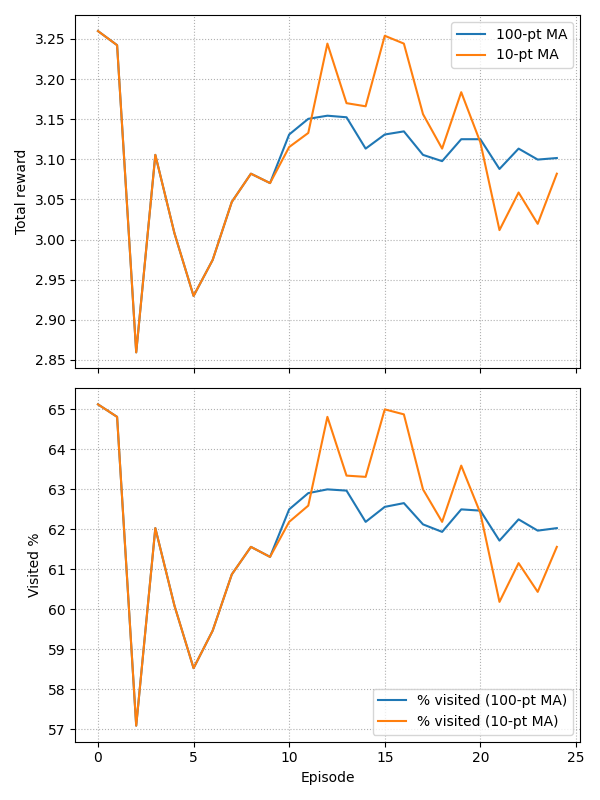
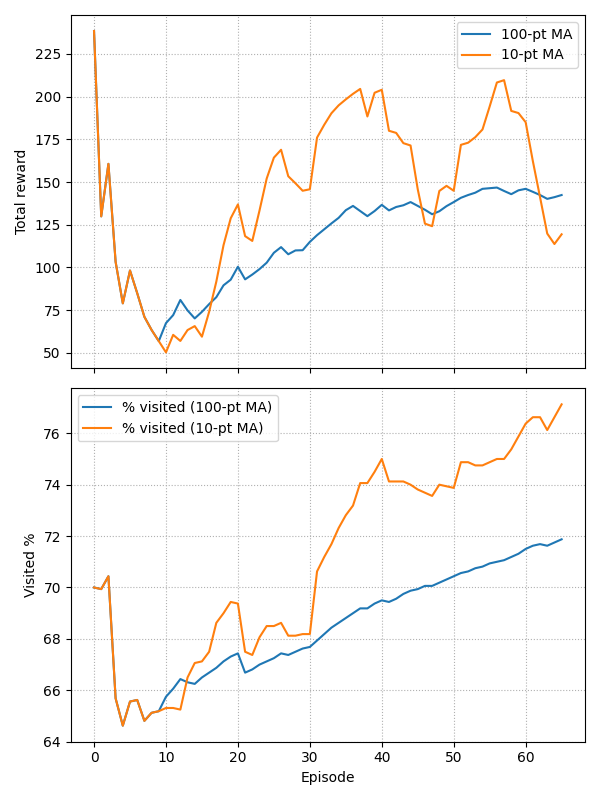
fixed memory to copy + other cmall imrovements

diff --git a/main.py b/main.py
@@ -5,17 +5,26 @@ from map import Map
 from DQAgent import DQAgent
 import random
 import matplotlib.pyplot as plt
+from collections import deque
 
-def moving_avg(seq, window):
-    return [sum(seq[max(0, i-window+1): i+1]) / min(window, i+1)
-            for i in range(len(seq))]
+# helper Incrementally update a moving-average list
+def update_ma(window, running_sum, new_val, ma_store):
+    # drop the value that just fell out of the window (if any)
+    if len(window) == window.maxlen:
+        running_sum -= window[0]
+    # push the new value
+    window.append(new_val)
+    running_sum += new_val
+    # append current average
+    ma_store.append(running_sum / len(window))
+    return running_sum
 
 
 MAXSIZE = 100
 MAXBANDS = 3
 
 def reset():
-    m = Map(100, 100, 10, MAXSIZE, MAXBANDS)
+    m = Map(100, 100, 11, MAXSIZE, MAXBANDS)
     m.add_wall(0, 0, 100, 10)
     m.add_wall(0, 0, 10, 100)
     m.add_wall(90, 0, 100, 100)
@@ -28,16 +37,24 @@ agent = DQAgent((MAXSIZE, MAXSIZE, MAXBANDS), 16)
 #agent.loadModel("models/Model-latest.weights.h5")
 
 
+rew_w100, rew_w10 = deque(maxlen=100), deque(maxlen=10)
+vis_w100, vis_w10 = deque(maxlen=100), deque(maxlen=10)
+
+sum_rew100 = sum_rew10 = 0.0
+sum_vis100 = sum_vis10 = 0.0
+
+MA_rew100, MA_rew10 = [], []        # what will plot
+MA_vis100, MA_vis10 = [], []
 
 roundNum = 0
-EveryReward = []
-PercentVisited = []
 m = reset()
 mapsize = m.getMovableCount()
 print("Map size:", mapsize)
-GOAL_REWARD      = +1
-STEP_PENALTY     = -1.0/mapsize     # every time step
-NEW_CELL_REWARD  = +5.0/mapsize
+GOAL_REWARD      = 100
+STEP_PENALTY     = -1.0     # every time step
+NEW_CELL_REWARD  = +.05
+currGoal = .70
+goalCount = 0
 while roundNum < 10000:
     roundNum += 1
     m = reset()
@@ -52,8 +69,15 @@ while roundNum < 10000:
 
         if roundNum % 10 == 0:
             m.displayBase()
-        if afterLen >= mapsize:
-            print("-------------------------------------Visited all cells")
+        if afterLen >= (mapsize*currGoal):
+            goalCount += 1
+            if goalCount >= 20:
+                currGoal += .05
+                if currGoal > 1.0:
+                    currGoal = 1.0
+                goalCount = 0
+                print("Goal reached, making harder",currGoal)
+            print("-------------------------------------Visited all cells",currGoal)
             reward = GOAL_REWARD
         elif afterLen > startLen:
             reward = NEW_CELL_REWARD * (afterLen - startLen)
@@ -67,24 +91,30 @@ while roundNum < 10000:
     if roundNum % 100 == 0:
         agent.epsilon = oldEps
     
-    EveryReward.append(allRewards)
+
     visited_pct = (m.grid[:, :, 2].sum() / mapsize) * 100.0   # % of cells cleaned this episode
-    PercentVisited.append(visited_pct)
+
+    # update running moving averages
+    sum_rew100 = update_ma(rew_w100, sum_rew100, allRewards, MA_rew100)
+    sum_rew10  = update_ma(rew_w10 , sum_rew10 , allRewards, MA_rew10)
+
+    sum_vis100 = update_ma(vis_w100, sum_vis100, visited_pct, MA_vis100)
+    sum_vis10  = update_ma(vis_w10 , sum_vis10 , visited_pct, MA_vis10)
 
     # --- plotting ---
     plt.clf()
     fig, (ax1, ax2) = plt.subplots(2, 1, figsize=(6, 8), sharex=True)
 
     # rewards (existing plot)
-    ax1.plot(moving_avg(EveryReward, 100), label="100-pt MA")
-    ax1.plot(moving_avg(EveryReward, 10) , label="10-pt MA")
+    ax1.plot(MA_rew100, label="100-pt MA")
+    ax1.plot(MA_rew10 , label="10-pt MA")
     ax1.set_ylabel("Total reward")
     ax1.legend()
     ax1.grid(True, linestyle=":")
 
     # NEW: % of spaces visited
-    ax2.plot(moving_avg(PercentVisited, 100), label="% visited (100-pt MA)")
-    ax2.plot(moving_avg(PercentVisited, 10), label="% visited (10-pt MA)")
+    ax2.plot(MA_vis100, label="% visited (100-pt MA)")
+    ax2.plot(MA_vis10 , label="% visited (10-pt MA)")
     ax2.set_ylabel("Visited %")
     ax2.set_xlabel("Episode")
     ax2.legend()
@@ -92,6 +122,7 @@ while roundNum < 10000:
 
     fig.tight_layout()
     fig.savefig("rewards.png")
+    plt.close(fig)
 
 m.displayMove()
 m.close()

diff --git a/map.py b/map.py
@@ -6,7 +6,7 @@ import numpy as np
 from PIL import Image
 
 class Map:
-    def __init__(self, length, width,agentSize=10,MAXSIZE=400,MAXBANDS=15):
+    def __init__(self, length, width,agentSize=11,MAXSIZE=400,MAXBANDS=15):
         self.length = length
         self.width = width
         self.agentSize = agentSize
@@ -24,28 +24,15 @@ class Map:
 
     def add_agent(self, x, y):
         self.agent = (x, y)
-        for r in range(-(self.agentSize//2), (self.agentSize//2)+1):
-            for c in range(-(self.agentSize//2), (self.agentSize//2)+1):
-                if x + r < self.length and y + c < self.width:
-                    if self.grid[x + r,y + c,0] != 0:
-                        raise ValueError("Invalid position for agent")
-                    self.grid[x + r,y + c,1] = 1
+        self.grid[self.agent[0]-(self.agentSize//2):self.agent[0]+(self.agentSize//2)+1,self.agent[1]-(self.agentSize//2):self.agent[1]+(self.agentSize//2)+1,1] = 1 # remove agent
+        self.grid[self.agent[0]-(self.agentSize//2):self.agent[0]+(self.agentSize//2)+1,self.agent[1]-(self.agentSize//2):self.agent[1]+(self.agentSize//2)+1,2] = 1 # set clean
     
     def remove_agent(self):
-        for r in range(-(self.agentSize//2), (self.agentSize//2)+1):
-            for c in range(-(self.agentSize//2), (self.agentSize//2)+1):
-                if self.agent[0] + r < self.length and self.agent[1] + c < self.width:
-                    self.grid[self.agent[0] + r,self.agent[1] + c,2] = 1 # set where i was to clean
-                    self.grid[self.agent[0] + r,self.agent[1] + c,1] = 0 # remove agent
+        self.grid[self.agent[0]-(self.agentSize//2):self.agent[0]+(self.agentSize//2)+1,self.agent[1]-(self.agentSize//2):self.agent[1]+(self.agentSize//2)+1,1] = 0 # remove agent
         self.agent = None
     
     def checkCollision(self, x, y):
-        for r in range(-(self.agentSize//2), (self.agentSize//2)+1):
-            for c in range(-(self.agentSize//2), (self.agentSize//2)+1):
-                if x + r < self.length and y + c < self.width:
-                    if self.grid[x + r,y + c,0] != 0:
-                        return True
-        return False
+        return x-(self.agentSize//2) < 0 or x+(self.agentSize//2) >= self.length or y-(self.agentSize//2) < 0 or y+(self.agentSize//2) >= self.width or self.grid[x-(self.agentSize//2):x+(self.agentSize//2)+1,y-(self.agentSize//2):y+(self.agentSize//2)+1,0].sum() != 0
 
     def displayMove(self):
         while True:
@@ -86,23 +73,35 @@ class Map:
         cv.destroyAllWindows()
 
     def move_agent(self, x, y):
-        if not self.checkCollision(x, y):
+        if self.checkCollision(x, y):
+            return False
+        else:
             self.remove_agent()
             self.add_agent(x, y)
+            return True
 
     
     def move_direction(self, direction):
         mult = (((direction // 4)+1)*self.agentSize)//4 # movement speed
         direction = direction%4 #movement direction
-        match direction:
-            case 0:
-                self.move_agent(self.agent[0] - mult, self.agent[1])
-            case 1:
-                self.move_agent(self.agent[0] + mult, self.agent[1])
-            case 2:
-                self.move_agent(self.agent[0], self.agent[1] - mult)
-            case 3:
-                self.move_agent(self.agent[0], self.agent[1] + mult)
+        while True:
+            if mult == 0:
+                break
+            match direction:
+                case 0:
+                    if self.move_agent(self.agent[0] - mult, self.agent[1]):
+                        break
+                case 1:
+                    if self.move_agent(self.agent[0] + mult, self.agent[1]):
+                        break
+                case 2:
+                    if self.move_agent(self.agent[0], self.agent[1] - mult):
+                        break
+                case 3:
+                    if self.move_agent(self.agent[0], self.agent[1] + mult):
+                        break
+            mult -= 1
+                
     
 
     def getGrid3D(self):

diff --git a/DQAgent.py b/DQAgent.py
@@ -19,8 +19,8 @@ class DQAgent:
         self.inputShape = inputShape
         self.outputShape = outputShape
         self.epsilon = 1
-        self.epsilonDecay = 0.99996
-        self.learningRate = 0.001
+        self.epsilonDecay = 0.99995
+        self.learningRate = 0.0001
         self.epsilonMin = 0.01
         self.gamma = 0.99
         self.memory = deque(maxlen=51200)
@@ -80,7 +80,7 @@ class DQAgent:
 
     # call to take an action in the environment
     def act(self,state):
-        self.lastState = state.reshape((1, *self.inputShape))
+        self.lastState = state.reshape((1, *self.inputShape)).copy()
         if np.random.rand() <= self.epsilon:
             self.lastAction = random.randrange(self.outputShape)
         else:
@@ -91,16 +91,19 @@ class DQAgent:
     # call to remember the last action taken and the reward received
     # this is called after the action has been taken and a new state has been received
     def remember(self,state,reward,done):
-        self.memory.append((self.lastState,self.lastAction,reward,state.reshape((1, *self.inputShape)),done))
+        self.memory.append((self.lastState,self.lastAction,reward,state.reshape((1, *self.inputShape)).copy(),done))
         self.train()
     
     def train(self):
         if len(self.memory) < self.minMemorySize:
             return
-        if self.trainTime > 0:
-            self.trainTime -= 1
-            return
-        self.trainTime = 10
+        self.epsilon *= self.epsilonDecay
+        if self.epsilon < self.epsilonMin:
+            self.epsilon = self.epsilonMin
+        # if self.trainTime > 0:
+        #     self.trainTime -= 1
+        #     return
+        # self.trainTime = 10
         batch = random.sample(self.memory, self.sampleSize)
 
         states      = np.vstack([exp[0] for exp in batch])           # shape: (batch, H, W, C)
@@ -121,6 +124,3 @@ class DQAgent:
 
         self.actionModel.fit(states, q_current, epochs=1, batch_size=self.sampleSize, verbose=0)
         self.updateTargetModel()
-        self.epsilon *= self.epsilonDecay
-        if self.epsilon < self.epsilonMin:
-            self.epsilon = self.epsilonMin